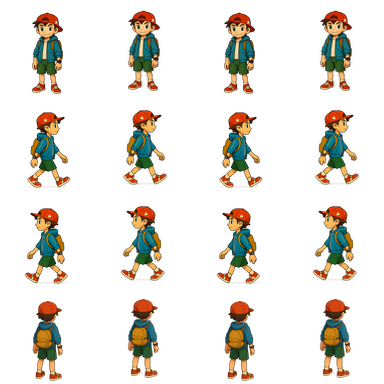
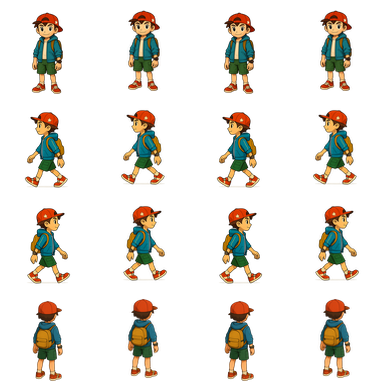
Poprawki z rozgrywki: kierunek chodu trenera, sala i miasto 2 na 2 (#32)
Profil „prawo" Janka i Eli we wsadzie patrzył w lewo — trener szedł w bok
tyłem; bohater_wczytaj.py odbija go przed złożeniem arkusza. Zamek (sala,
miasto) to walka trenerów: na polu dwóch obrońców, w scenie, AI i autopilocie.

Claude-Session: https://claude.ai/code/session_01MVogJn4DB8sWmRV7qMJoQR

diff --git a/src/data/mapa.ts b/src/data/mapa.ts
@@ -1614,8 +1614,8 @@ export function odwiedz(s: StanMapy, o: Obiekt, kto: Wlasciciel = 'gracz'): Wyni
 
 /**
  * Obrońcy zamku w kolejności, w jakiej stają do bitwy: najsilniejsi pierwsi.
- * Na polu staje najwyżej trzech (`NA_POLU_DZIKIE`) — straż z planszy
- * i garnizon razem potrafią mieć więcej, więc bronią najmocniejsi, a nie ci,
+ * Na polu stają dwaj (`NA_POLU` — sala i miasto to walka trenerów) — straż
+ * z planszy i garnizon razem mają więcej, więc bronią najmocniejsi, a nie ci,
  * którzy akurat stoją na początku listy. Stworki się nie łączą: dwa
  * Glacyny na różnych poziomach to dwie różne postacie.
  */
@@ -1890,12 +1890,14 @@ export const RYWAL_ID = -1;
 
 /**
  * Ilu stworków PRZECIWNIKA staje na polu w walce z tym obiektem. Trener
- * (gracz, AI) wystawia zawsze dwa (`NA_POLU`); rywal też dwa, a dzikie
- * stado i obrońcy miasta — do trzech (`NA_POLU_DZIKIE`). Ta sama liczba
- * dla sceny, AI i autopilota.
+ * (gracz, AI) wystawia zawsze dwa (`NA_POLU`); rywal i zamek (sala, miasto —
+ * walka z trenerem) też dwa, a dzikie stado do trzech (`NA_POLU_DZIKIE`).
+ * Zamek miał kiedyś trzech obrońców na polu — z rozgrywki: „trenerzy mieli
+ * walczyć 2 na 2", a lider sali wystawiał trzy stworki. Ta sama liczba dla
+ * sceny, AI i autopilota.
  */
 export function naPoluPrzeciw(o: Pick<Obiekt, 'rodzaj' | 'id'> | undefined): number {
-  return o?.id === RYWAL_ID ? NA_POLU : NA_POLU_DZIKIE;
+  return o?.id === RYWAL_ID || o?.rodzaj === 'zamek' ? NA_POLU : NA_POLU_DZIKIE;
 }
 
 /** Czy trener strony `kto` jest w grze — ma zamek (salę) albo drużynę. */

diff --git a/src/data/wrog-ai.ts b/src/data/wrog-ai.ts
@@ -74,7 +74,7 @@ import {
   type Wlasciciel,
 } from './mapa';
 import { SLOTY_ARMII, dolacz, zywe } from './armia';
-import { NA_POLU, NA_POLU_DZIKIE, makeRng } from './battle';
+import { NA_POLU, makeRng } from './battle';
 import { factionById } from './factions';
 import { jednostkiBitwy, najsilniejsiNaPrzod, nowyStworek, rozegrajBitwe, rozliczDruzyne } from './stworki';
 import { moznaBudowac, profilZamku } from './zamki';
@@ -524,7 +524,7 @@ function celMisji(s: StanMapy, kto: Wlasciciel, ziarno: number): Cel | undefined
     }
     const straz = strzezoneProzez(widok, o.x, o.y);
     if (straz && !wygramy(armia, straz.oddzialy ?? [], ziarno, naPoluPrzeciw(straz))) continue;
-    if (o.rodzaj === 'zamek' && !wygramy(armia, obroncyZamku(o), ziarno, NA_POLU_DZIKIE)) continue;
+    if (o.rodzaj === 'zamek' && !wygramy(armia, obroncyZamku(o), ziarno, naPoluPrzeciw(o))) continue;
     return { kroki };
   }
   return undefined;
@@ -552,7 +552,7 @@ function celNatarcia(s: StanMapy, kto: Wlasciciel, ziarno: number): Cel | undefi
     if (!kroki || kroki.length === 0) continue;
     const straz = strzezoneProzez(widok, z.x, z.y);
     if (straz && !wygramy(armia, straz.oddzialy ?? [], ziarno, naPoluPrzeciw(straz))) continue;
-    if (!wygramy(armia, obroncyZamku(z), ziarno, NA_POLU_DZIKIE)) continue;
+    if (!wygramy(armia, obroncyZamku(z), ziarno, naPoluPrzeciw(z))) continue;
     return { kroki };
   }
   return undefined;

diff --git a/tools/bohater_wczytaj.py b/tools/bohater_wczytaj.py
@@ -47,6 +47,10 @@ CEL = KORZEN / 'public' / 'mapa'
 #: poprawka animacji trafiałaby za każdym razem w jeden z trzech.
 POSTACIE = {'bohater': 'bohater', 'bohaterka': 'bohaterka', 'wrog': 'wrog'}
 
+#: Wsady, w których model narysował profil `-prawo` patrzący W LEWO (Janek
+#: i Ela). Bez odbicia trener szedł w bok tyłem — zgłoszone z rozgrywki.
+PROFIL_W_LEWO = {'bohater', 'bohaterka'}
+
 #: Bok jednej klatki. Musi zgadzać się z `BOHATER_KLATKA` w `AdventureScene`.
 KLATKA = 96
 
@@ -120,6 +124,8 @@ if __name__ == '__main__':
             print(f'  {przedrostek} — brak wsadu, pomijam')
             continue
         zrodla = {k: wczytaj(f'{przedrostek}-{k}') for k in ('dol', 'gora', 'prawo')}
+        if przedrostek in PROFIL_W_LEWO:
+            zrodla['prawo'] = zrodla['prawo'].transpose(Image.FLIP_LEFT_RIGHT)
         zrodla['lewo'] = zrodla['prawo'].transpose(Image.FLIP_LEFT_RIGHT)
 
         arkusz = Image.new('RGBA', (KLATKA * 4, KLATKA * len(WIERSZE)), (0, 0, 0, 0))

diff --git a/STAN.md b/STAN.md
@@ -2,6 +2,22 @@
 
 Ostatnia aktualizacja: 2026-09-27 (trener zamiast armii: stworek = postać z poziomem, 4 na polu bitwy, trening i Centrum Pokemon).
 
+## Uwagi z rozgrywki misji 1 (2026-09-28)
+
+**Trener chodził w bok tyłem.** Wsady `bohater-prawo.png` i `bohaterka-prawo.png`
+model narysował z profilem patrzącym w LEWO, a `bohater_wczytaj.py` robił
+z nich „prawo" i lustrem „lewo". Poprawka w skrypcie (`PROFIL_W_LEWO`),
+arkusze przebudowane; `wrog-prawo.png` był dobry i zostaje.
+
+**Lider sali wystawiał trzy stworki.** `naPoluPrzeciw` dawało zamkowi
+`NA_POLU_DZIKIE` (3), choć komentarz w AdventureScene mówił „sale i miasta:
+dwa na dwa". Teraz zamek = walka trenerów = 2 na polu (scena, AI
+`wrog-ai.ts`, autopilot). Skutek w symulacji: misja 1 — fort pada dnia 23
+zamiast 30; misje 2–4 bez zmiany progów, wszystkie OK.
+
+**Przeciwnik nie wychodzi z wioski w misji 1** — to nie błąd: Polana ma
+`wrog: 'obronca'` (`tools/mapy/polana.py`), samouczek bez napadu na gracza.
+
 ## Menu główne w stylu gier Pokémon (2026-09-28)
 
 **Co jest.** Ekran tytułowy zamiast baśniowej wioski z drogowskazem: tło to
